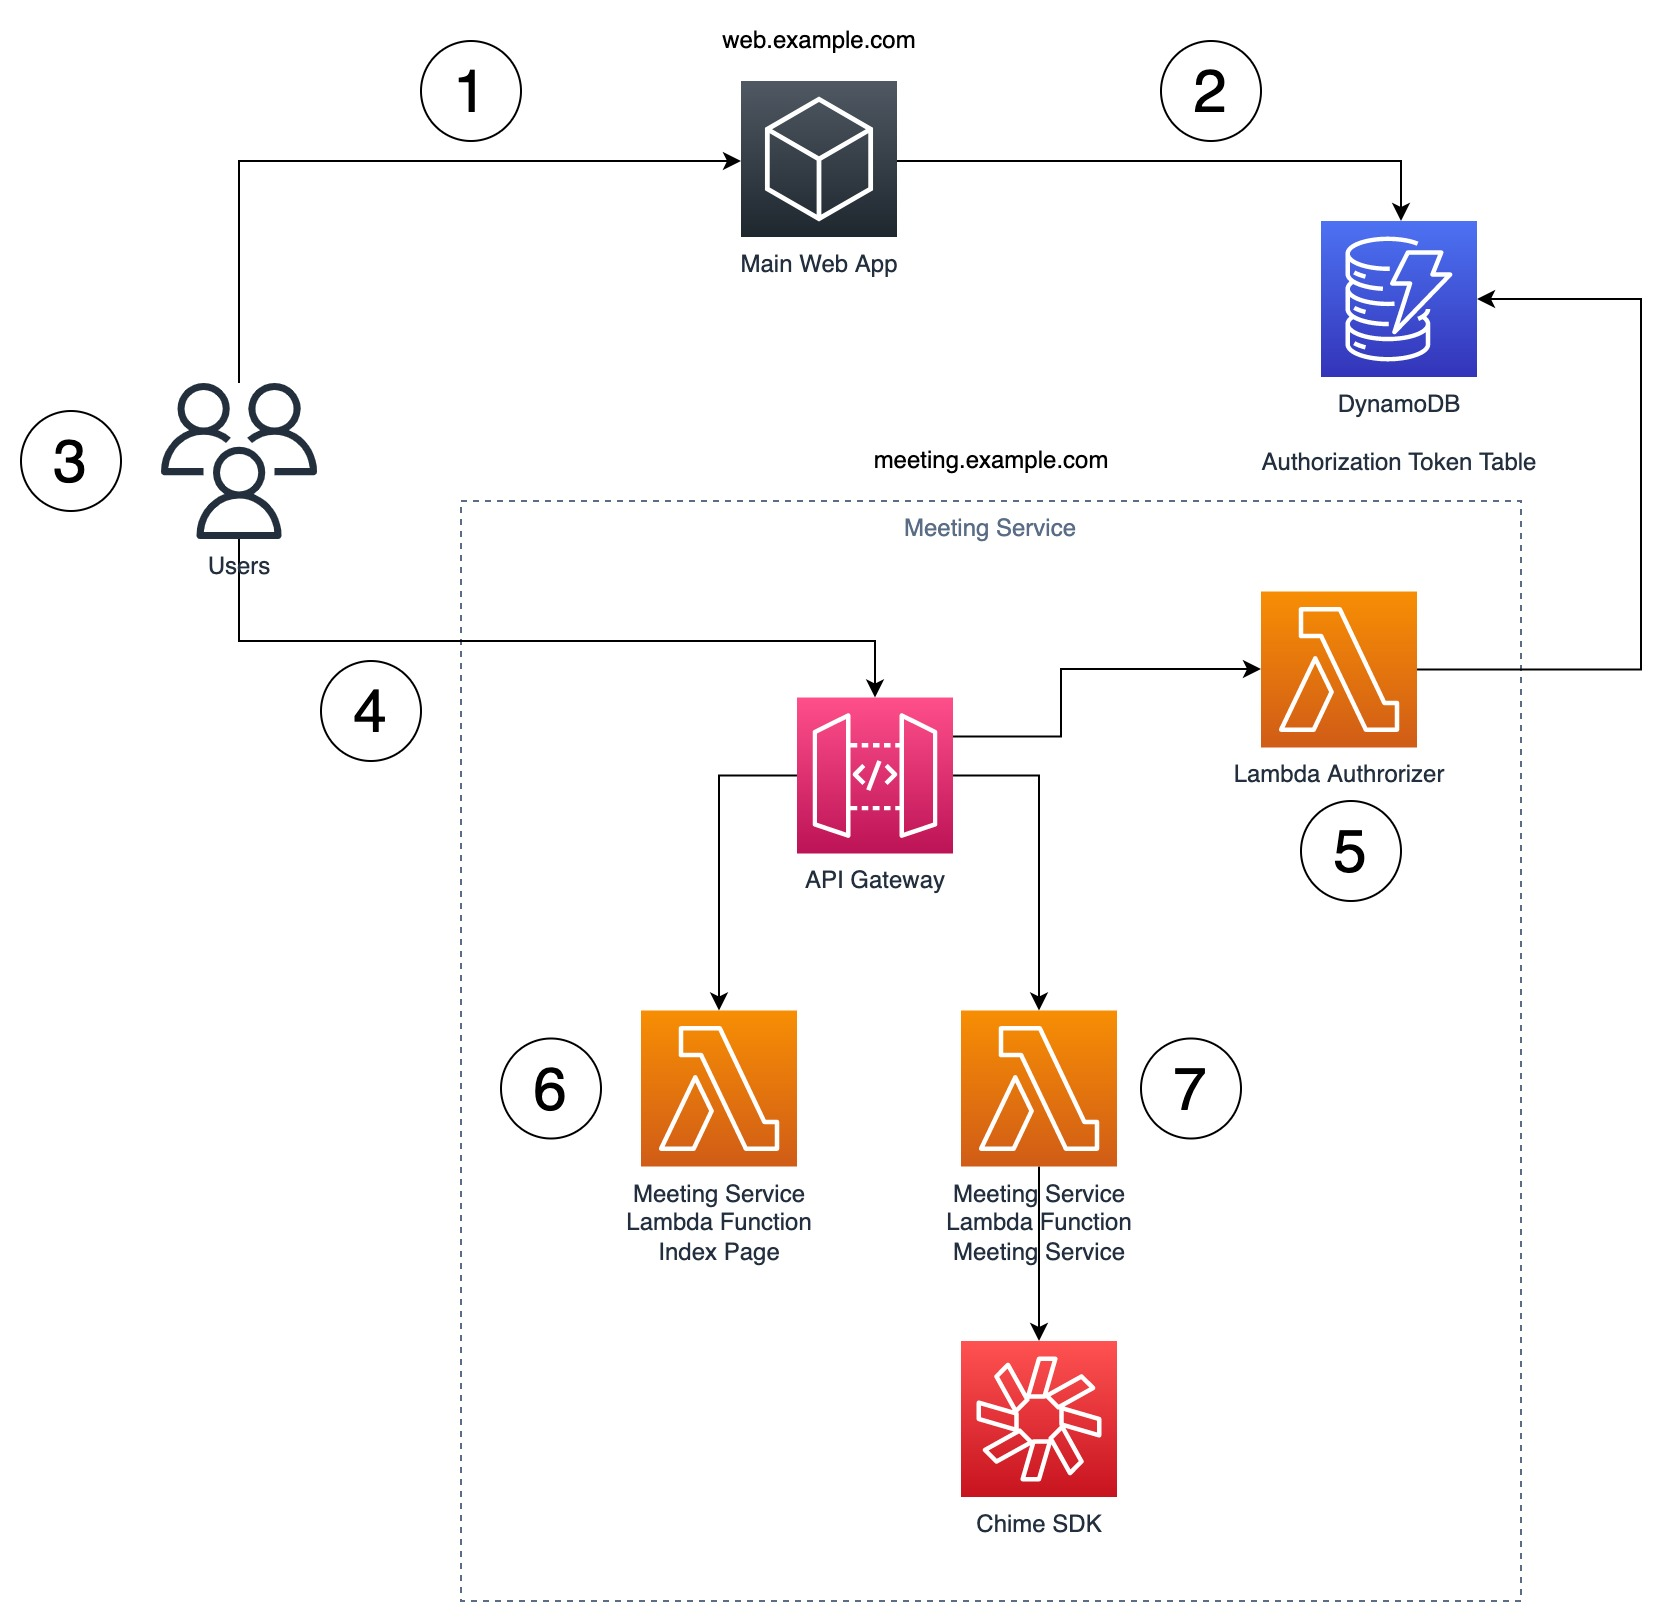
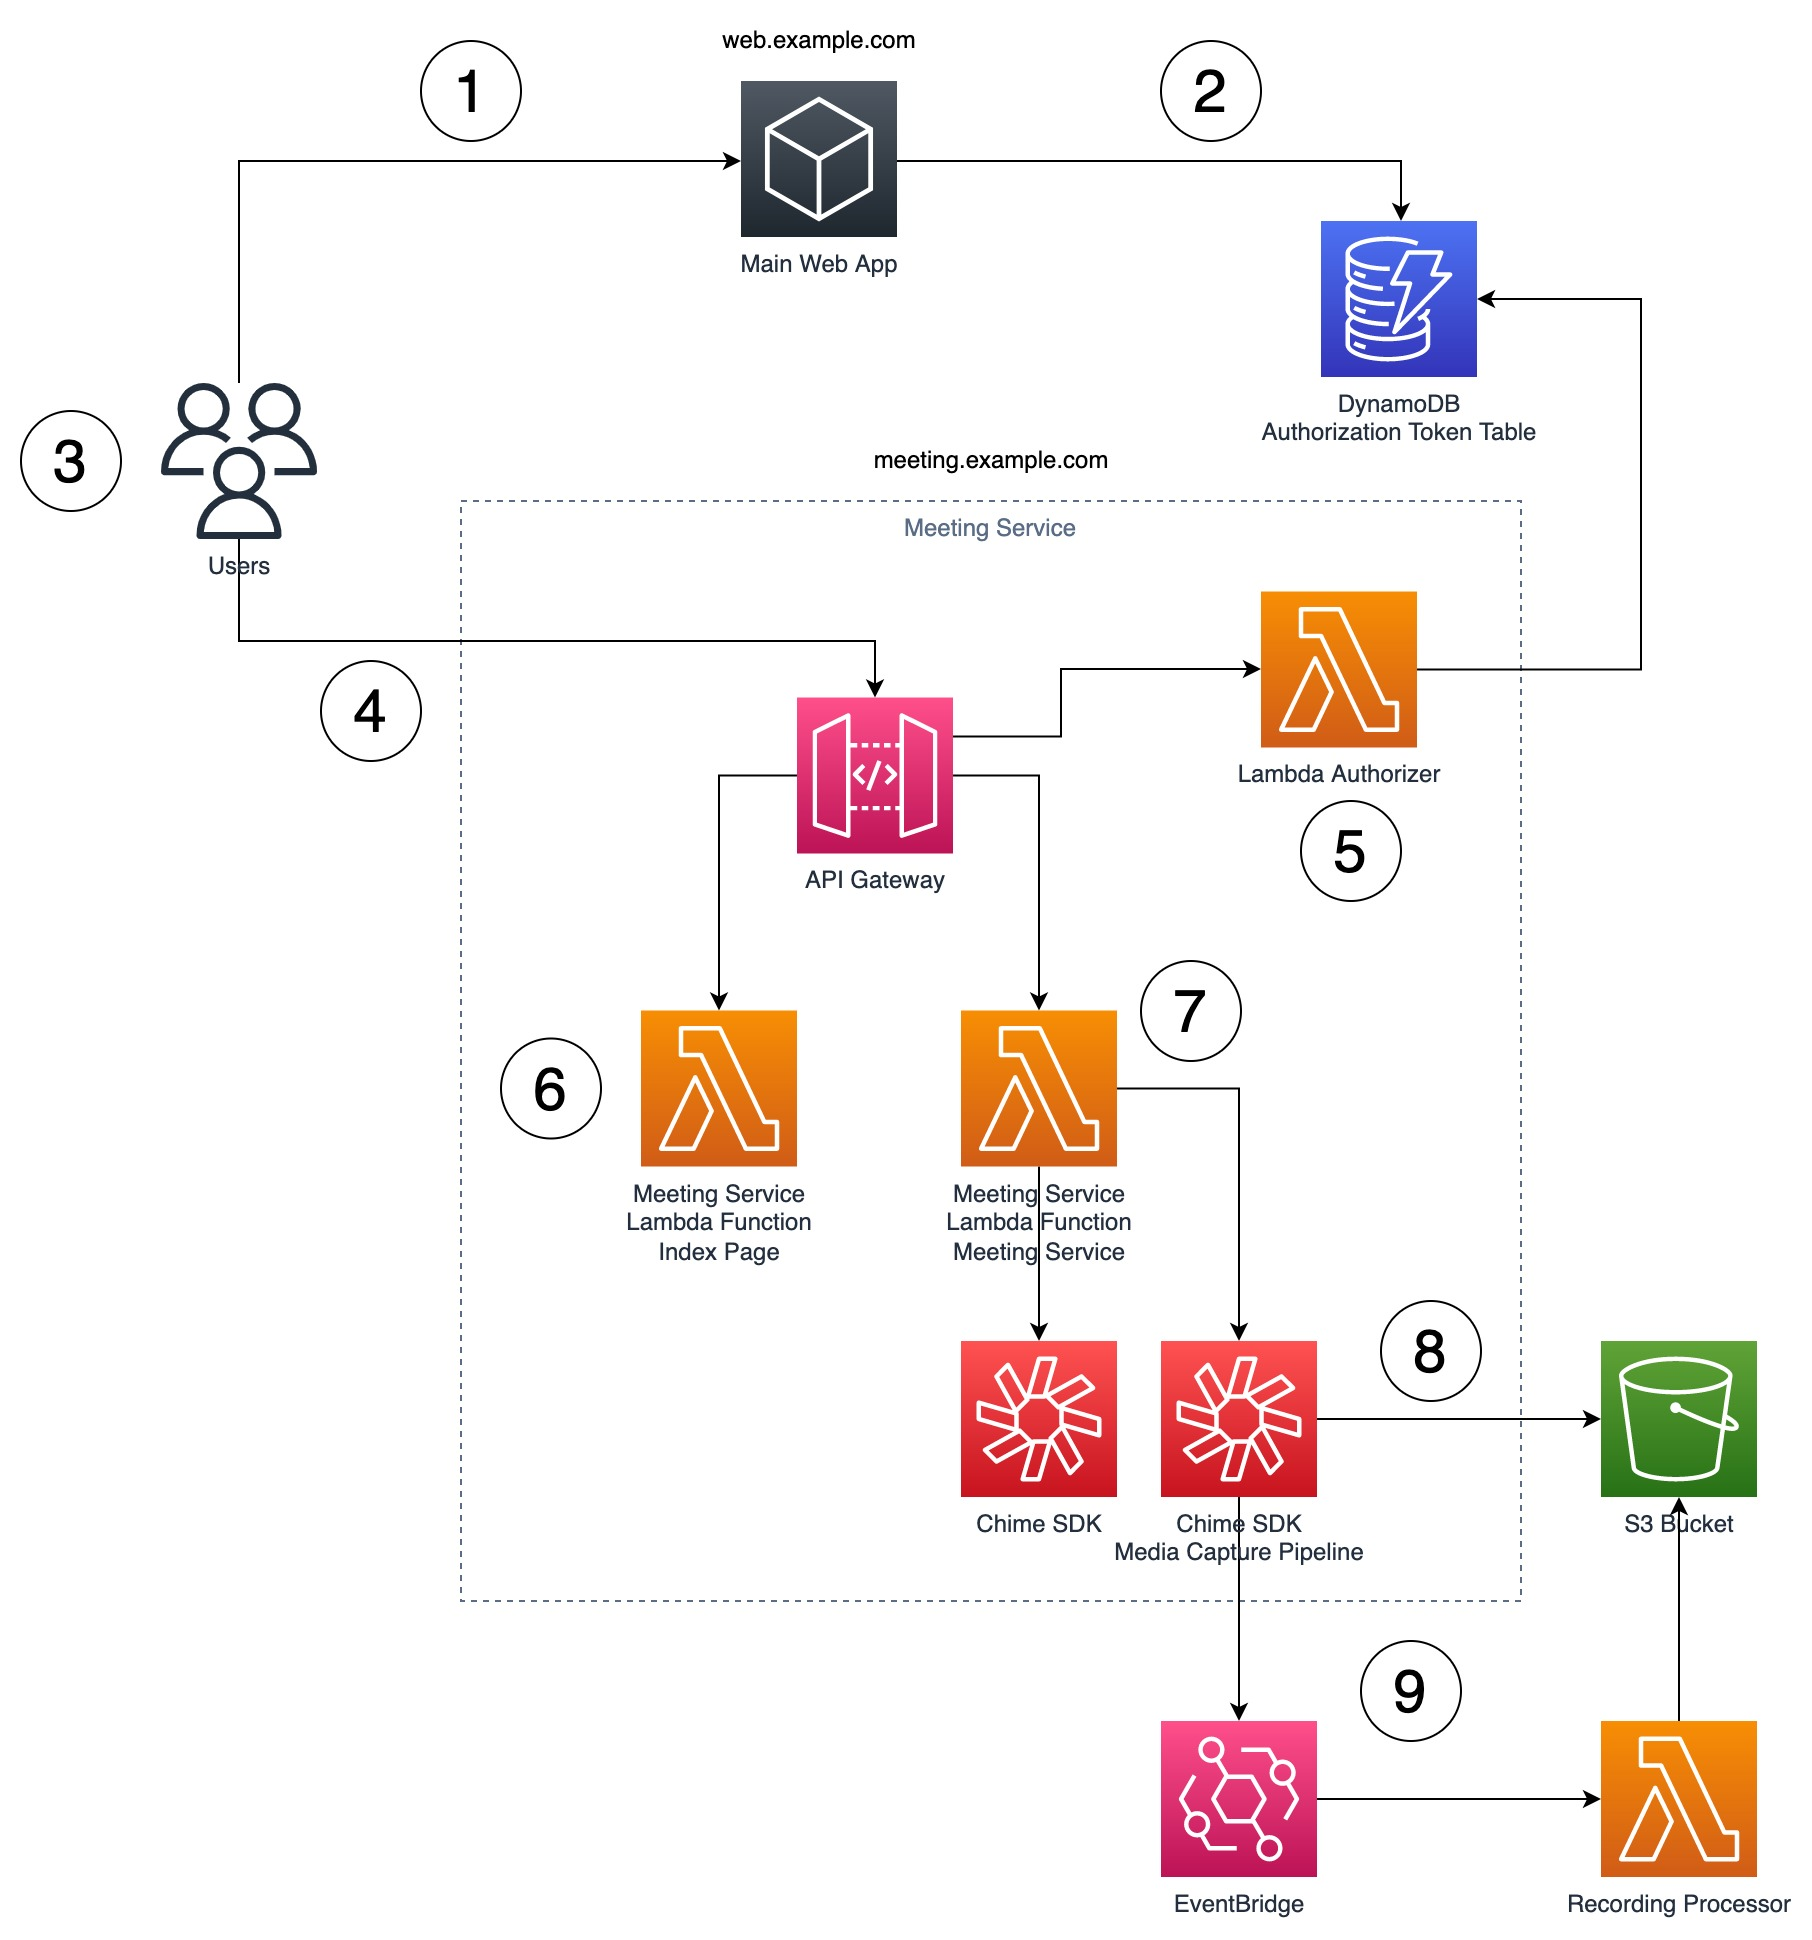
Updated the diagram and documentation

diff --git a/README.md b/README.md
@@ -1,4 +1,4 @@
-# Note
+## Note
 This repository is forked from https://github.com/aws-samples/amazon-chime-sdk. In this repository, you can find the modification and also added documentation in the [meeting application](https://github.com/hendryanw/amazon-chime-sdk-react-with-auth/tree/main/apps/meeting).
 
 The objective of the modification is to allow the meeting application to be embedded into existing web application without too much effort with additional features:
@@ -7,7 +7,26 @@ The objective of the modification is to allow the meeting application to be embe
 3. Allow the meeting to be recorded using Chime SDK Media Capture Pipeline. This allows various use-cases such as watching the meeting on-demand after the meeting has ended.
 4. Combine the meeting recording using ffmpeg into a single audio/video and individual share screens video.
 
-For more details, please refer to the README section of the [meeting application](https://github.com/hendryanw/amazon-chime-sdk-react-with-auth/tree/main/apps/meeting).
+___
+
+## Architecture
+
+The following is the high-level architecture diagram that highlights the included modifications.
+
+![Meeting Architecture Diagram](/apps/meeting/overview-architecture-diagram.jpg)
+
+1. Users authenticate with main web app and access the web page for the meeting
+2. The main web app creates the meeting link with the necessary information such as users, meeting id, and authorization token in the query strings. The authorization token is stored in DynamoDB along with other information such as meeting id, roles, validity time, etc as per business requirements.
+3. Users clicked on the button that contains hyperlink e.g. `meeting.example.com?meetingid=1234&username=john&token=abcdefg`
+4. Users is pointed to the meeting service at meeting.example.com. The request is accepted by API Gateway
+5. API Gateway accepted the request and then invoked Lambda Authorizer to verify the token. Lambda Authorizer logic can be customized to verify whether the token exists in the Authorization Token Table.
+And also verify whether the token is still valid within the time period, etc.
+6. Lambda Function Index Page returns the initial response containing the React application
+7. React Application will call various API in the meeting service such as create meeting, join, end, recording, etc.
+8. Recording will be handled by Chime SDK Media Capture Pipeline and the segmented recording files will be stored into S3 bucket
+9. When the recording is stopped, Chime SDK will publish an event to EventBridge. A rule is configured to invoke the Lambda Recording Processor to process the segmented recording files into a single video/audio file and also screenshare files if any.
+
+For deployment steps, please refer to this [meeting application page]](https://github.com/hendryanw/amazon-chime-sdk-react-with-auth/tree/main/apps/meeting).
 
 ## Resources
 

diff --git a/apps/meeting/README.MD b/apps/meeting/README.MD
@@ -22,21 +22,6 @@ ___
 
 ## 2. Deploying it to AWS Serverless
 
-The following is the high-level architecture diagram that highlights the modification to includes authorization component.
-
-![Meeting Architecture Diagram](/apps/meeting/overview-architecture-diagram.jpg)
-
-1. Users authenticate with main web app and access the web page for the meeting
-2. The main web app creates the meeting link with the necessary information such as users, meeting id, and authorization token in the query strings. The authorization token is stored in DynamoDB along with other information such as meeting id, roles, validity time, etc as per business requirements.
-3. Users clicked on the button that contains hyperlink e.g. `meeting.example.com?meetingid=1234&username=john&token=abcdefg`
-4. Users is pointed to the meeting service at meeting.example.com. The request is accepted by API Gateway
-5. API Gateway accepted the request and then invoked Lambda Authorizer to verify the token. Lambda Authorizer logic can be customized to verify whether the token exists in the Authorization Token Table.
-And also verify whether the token is still valid within the time period, etc.
-6. Lambda Function Index Page returns the initial response containing the React application
-7. React Application will call various API in the meeting service such as create meeting, join, end, etc.
-
-___
-
 ### Install aws and sam command line tools
 
 - [Install the AWS CLI](https://docs.aws.amazon.com/cli/latest/userguide/install-cliv1.html)
